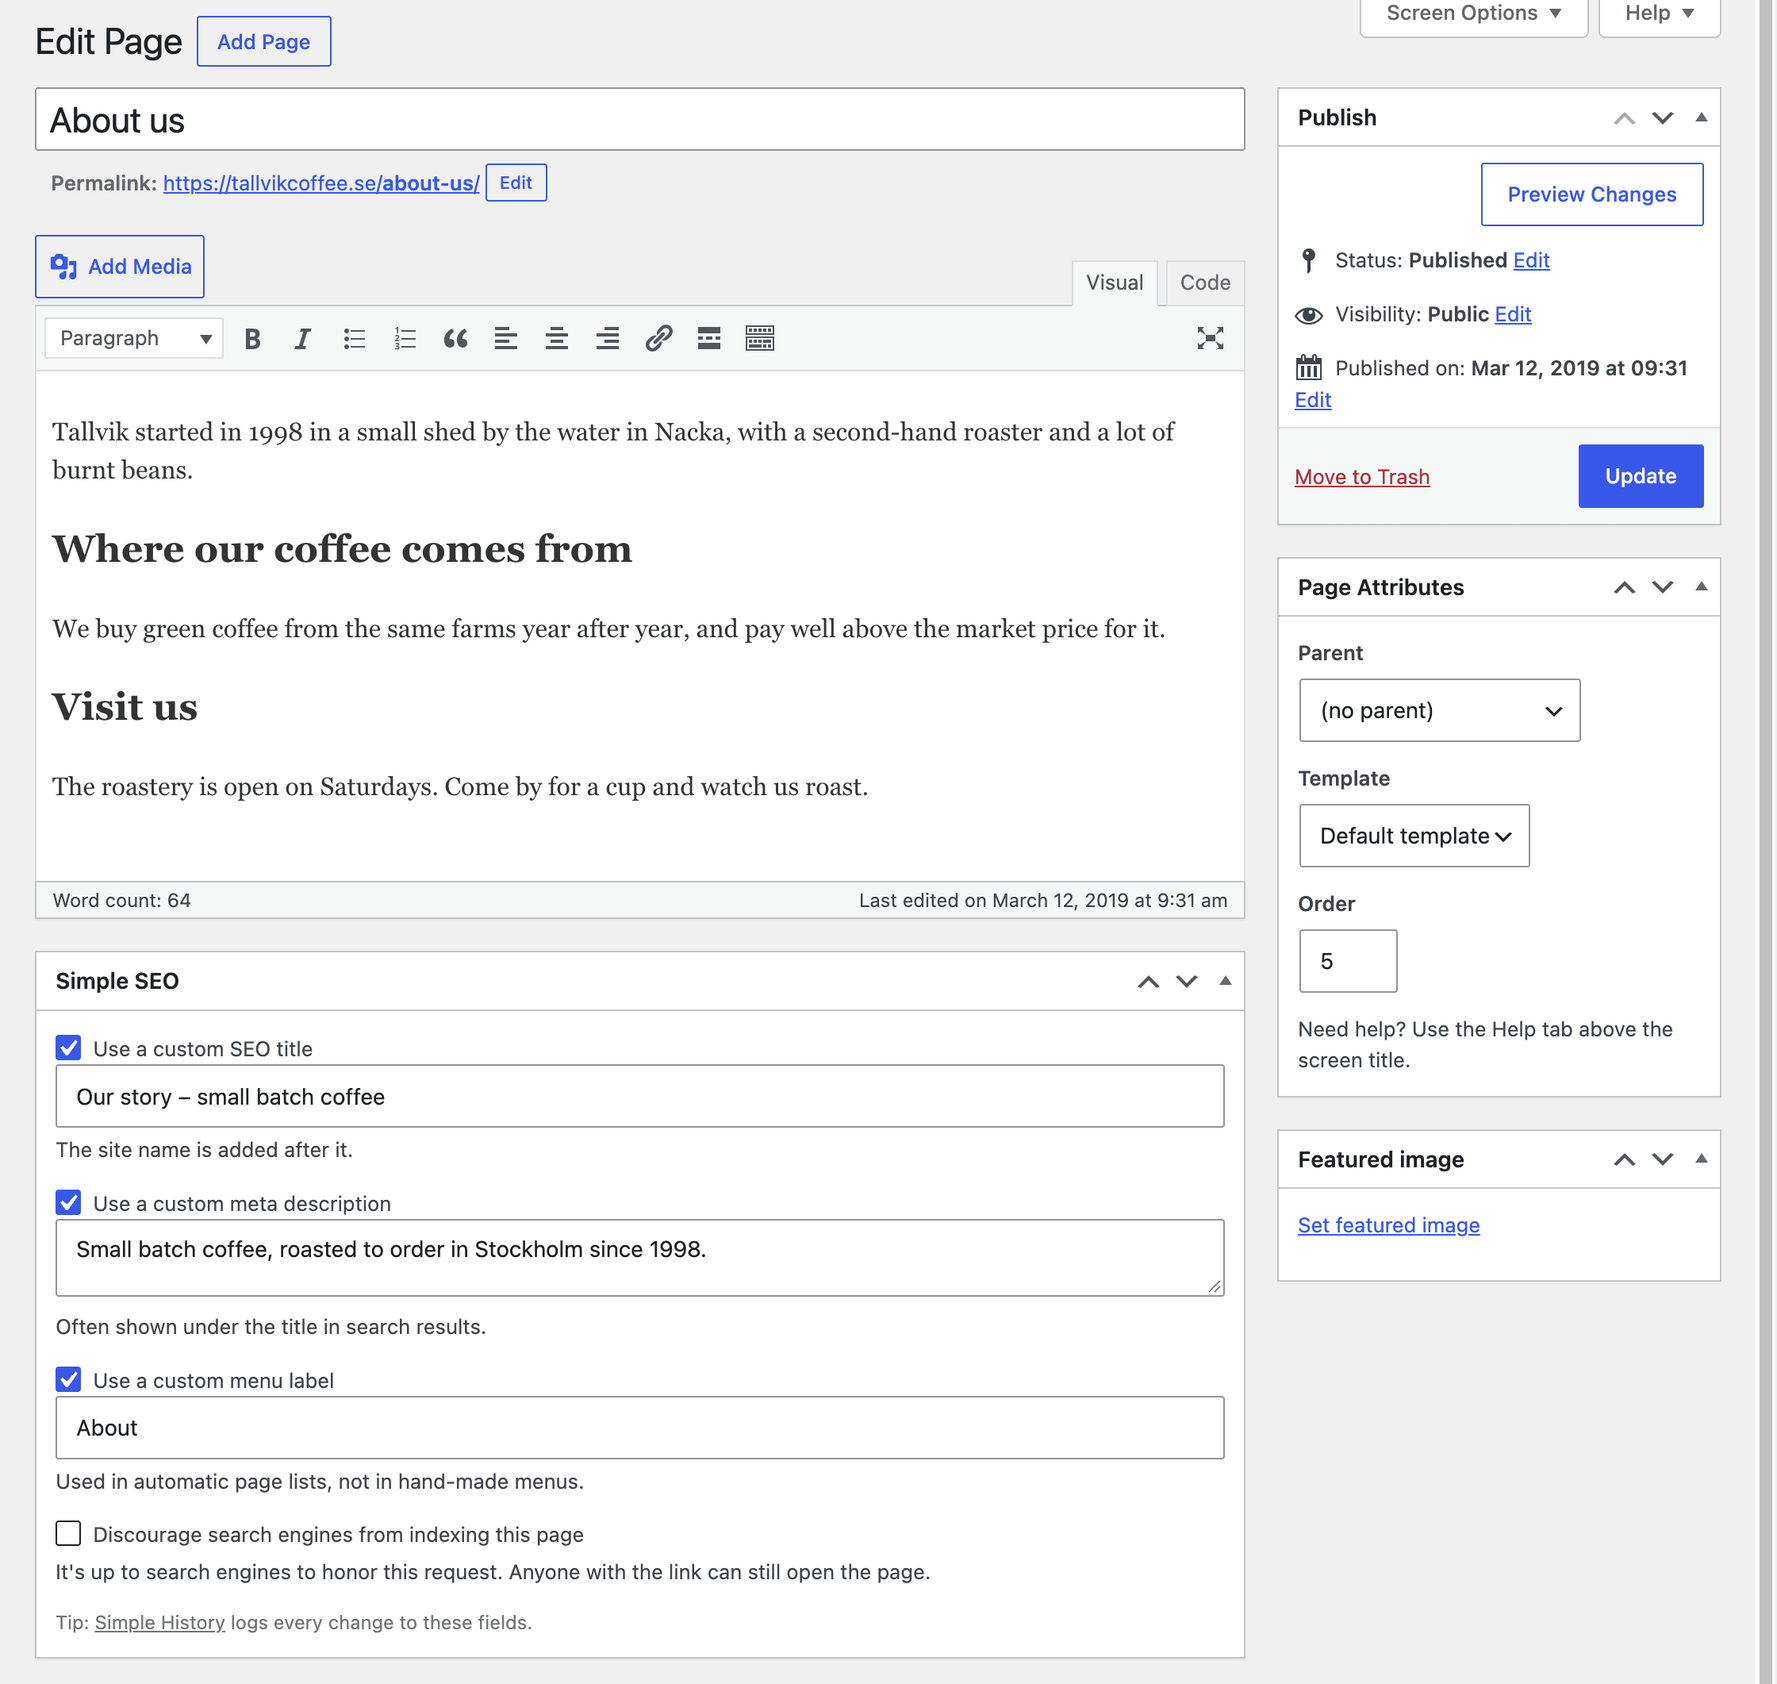
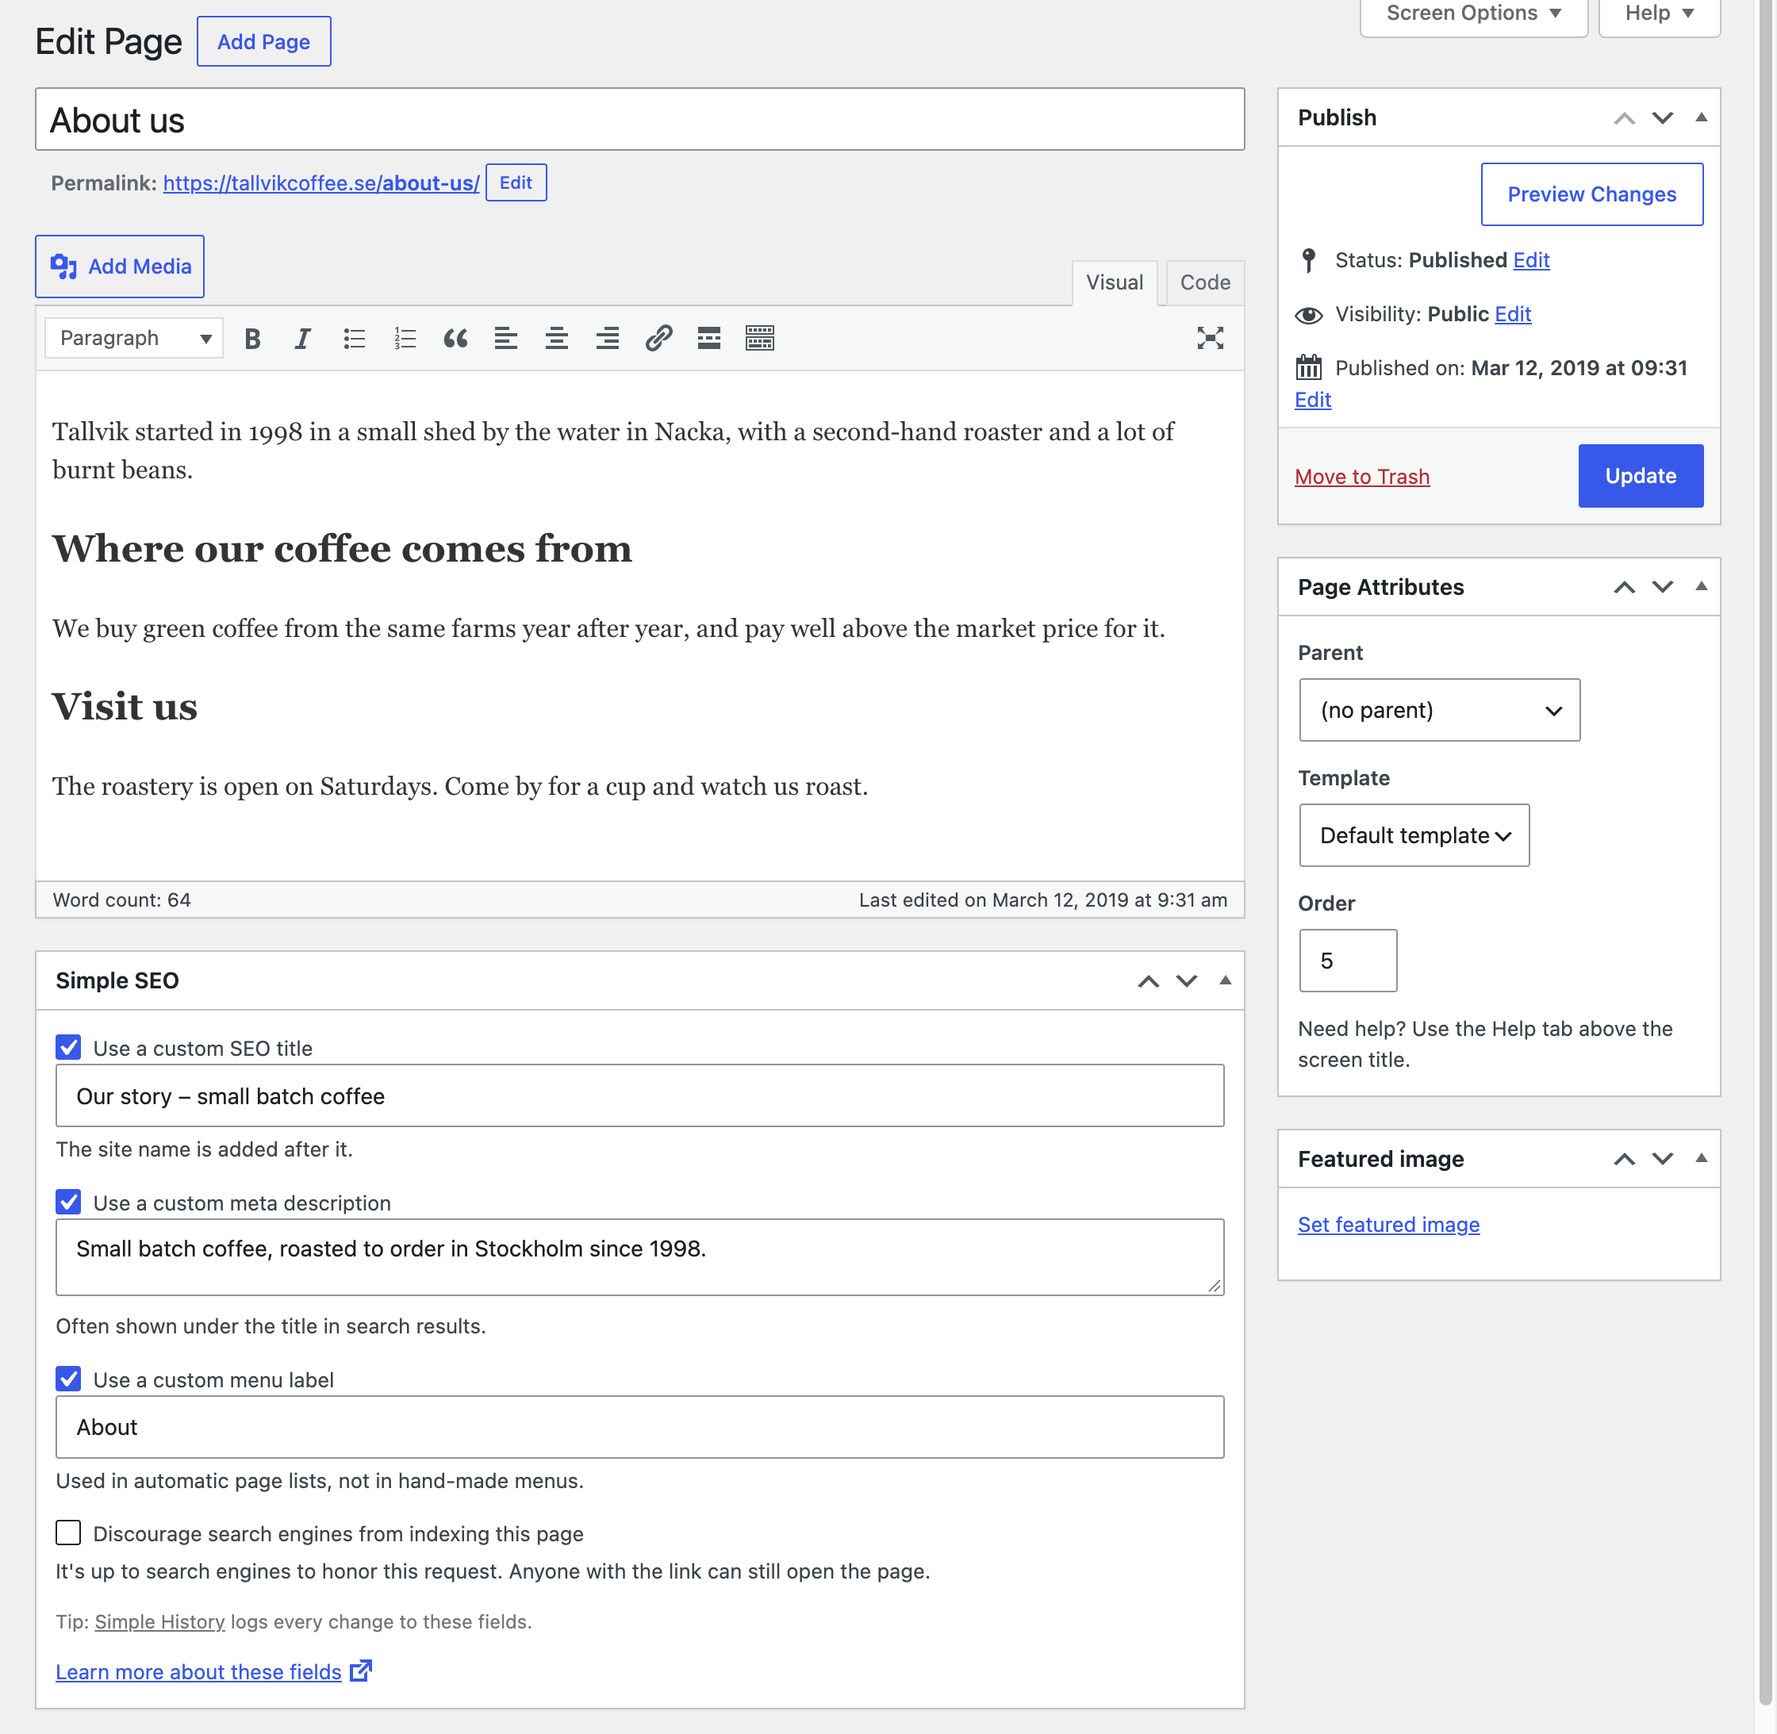
"Learn more about these fields" link to the FAQ
At the bottom of the block editor panel and the Classic box, the core way
to offer more help. Screenshots 1 and 4 retaken.

diff --git a/build/editor-panel.js b/build/editor-panel.js
@@ -1,2 +1,2 @@
-(()=>{"use strict";const e=window.wp.plugins,s=window.wp.editor,t=window.wp.coreData,i=window.wp.data,o=window.wp.element,l=window.wp.components,n=window.wp.i18n,a=window.ReactJSXRuntime,{otherPlugin:_,simpleHistoryUrl:p,frontPageId:r}=window.simpleSeoEditor||{};function d({label:e,inputLabel:s,help:t,text:i,disabled:n,onChange:_,multiline:p}){const[r,d]=(0,o.useState)(!1),m=!n&&(""!==i||r),c={__nextHasNoMarginBottom:!0,hideLabelFromVision:!0,label:s,help:t,value:i,onChange:e=>_({text:e,disabled:!m})};return(0,a.jsxs)(l.Flex,{direction:"column",gap:2,children:[(0,a.jsx)(l.CheckboxControl,{__nextHasNoMarginBottom:!0,label:e,checked:m,onChange:e=>{d(e),_({text:i,disabled:!e})}}),p?(0,a.jsx)(l.TextareaControl,{...c,className:"simple-seo-autogrow",rows:2}):(0,a.jsx)(l.TextControl,{...c,__next40pxDefaultSize:!0})]})}(0,e.registerPlugin)("simple-seo",{render:function(){const e=(0,i.useSelect)(e=>e(s.store).getCurrentPostType(),[]),m=(0,i.useSelect)(e=>e(s.store).getCurrentPostId(),[]),[c,h]=(0,t.useEntityProp)("postType",e,"meta");if(!c)return null;const u=!c._simple_seo_title_disabled&&""!==c._simple_seo_title||!c._simple_seo_description_disabled&&""!==c._simple_seo_description||!!c._simple_seo_noindex,x=e=>({text:s,disabled:t})=>h({[e]:s,[`${e}_disabled`]:t});return(0,a.jsx)(s.PluginDocumentSettingPanel,{name:"simple-seo",title:(0,n.__)("Simple SEO","simple-seo"),children:(0,a.jsxs)(l.Flex,{direction:"column",gap:4,children:[_&&(0,a.jsx)("p",{className:"components-base-control__help",children:(0,n.sprintf)(/* translators: %s: name of another SEO plugin, like Yoast SEO. */ /* translators: %s: name of another SEO plugin, like Yoast SEO. */
-(0,n.__)("%s is active and handles SEO, so these fields aren’t used.","simple-seo"),_)}),(0,a.jsx)(d,{label:(0,n.__)("Use a custom SEO title","simple-seo"),inputLabel:(0,n.__)("SEO title","simple-seo"),help:m===r?(0,n.__)("Used as the whole title of the front page.","simple-seo"):(0,n.__)("The site name is added after it.","simple-seo"),text:c._simple_seo_title,disabled:c._simple_seo_title_disabled,onChange:x("_simple_seo_title")}),(0,a.jsx)(d,{label:(0,n.__)("Use a custom meta description","simple-seo"),inputLabel:(0,n.__)("Meta description","simple-seo"),help:(0,n.__)("Often shown under the title in search results.","simple-seo"),text:c._simple_seo_description,disabled:c._simple_seo_description_disabled,onChange:x("_simple_seo_description"),multiline:!0}),(0,a.jsx)(l.CheckboxControl,{__nextHasNoMarginBottom:!0,label:(0,n.__)("Discourage search engines from indexing this page","simple-seo"),help:(0,n.__)("It’s up to search engines to honor this request. Anyone with the link can still open the page.","simple-seo"),checked:!!c._simple_seo_noindex,onChange:e=>h({_simple_seo_noindex:e})}),p&&u&&(0,a.jsx)("p",{className:"simple-seo-tip",children:(0,o.createInterpolateElement)((0,n.__)("Tip: <a>Simple History</a> logs every change to these fields.","simple-seo"),{a:(0,a.jsx)("a",{href:p})})})]})})}})})();
+(()=>{"use strict";const e=window.wp.plugins,s=window.wp.editor,i=window.wp.coreData,t=window.wp.data,o=window.wp.element,l=window.wp.components,n=window.wp.i18n,a=window.ReactJSXRuntime,{otherPlugin:_,simpleHistoryUrl:p,frontPageId:r,faqUrl:d}=window.simpleSeoEditor||{};function m({label:e,inputLabel:s,help:i,text:t,disabled:n,onChange:_,multiline:p}){const[r,d]=(0,o.useState)(!1),m=!n&&(""!==t||r),c={__nextHasNoMarginBottom:!0,hideLabelFromVision:!0,label:s,help:i,value:t,onChange:e=>_({text:e,disabled:!m})};return(0,a.jsxs)(l.Flex,{direction:"column",gap:2,children:[(0,a.jsx)(l.CheckboxControl,{__nextHasNoMarginBottom:!0,label:e,checked:m,onChange:e=>{d(e),_({text:t,disabled:!e})}}),p?(0,a.jsx)(l.TextareaControl,{...c,className:"simple-seo-autogrow",rows:2}):(0,a.jsx)(l.TextControl,{...c,__next40pxDefaultSize:!0})]})}(0,e.registerPlugin)("simple-seo",{render:function(){const e=(0,t.useSelect)(e=>e(s.store).getCurrentPostType(),[]),c=(0,t.useSelect)(e=>e(s.store).getCurrentPostId(),[]),[h,u]=(0,i.useEntityProp)("postType",e,"meta");if(!h)return null;const x=!h._simple_seo_title_disabled&&""!==h._simple_seo_title||!h._simple_seo_description_disabled&&""!==h._simple_seo_description||!!h._simple_seo_noindex,g=e=>({text:s,disabled:i})=>u({[e]:s,[`${e}_disabled`]:i});return(0,a.jsx)(s.PluginDocumentSettingPanel,{name:"simple-seo",title:(0,n.__)("Simple SEO","simple-seo"),children:(0,a.jsxs)(l.Flex,{direction:"column",gap:4,children:[_&&(0,a.jsx)("p",{className:"components-base-control__help",children:(0,n.sprintf)(/* translators: %s: name of another SEO plugin, like Yoast SEO. */ /* translators: %s: name of another SEO plugin, like Yoast SEO. */
+(0,n.__)("%s is active and handles SEO, so these fields aren’t used.","simple-seo"),_)}),(0,a.jsx)(m,{label:(0,n.__)("Use a custom SEO title","simple-seo"),inputLabel:(0,n.__)("SEO title","simple-seo"),help:c===r?(0,n.__)("Used as the whole title of the front page.","simple-seo"):(0,n.__)("The site name is added after it.","simple-seo"),text:h._simple_seo_title,disabled:h._simple_seo_title_disabled,onChange:g("_simple_seo_title")}),(0,a.jsx)(m,{label:(0,n.__)("Use a custom meta description","simple-seo"),inputLabel:(0,n.__)("Meta description","simple-seo"),help:(0,n.__)("Often shown under the title in search results.","simple-seo"),text:h._simple_seo_description,disabled:h._simple_seo_description_disabled,onChange:g("_simple_seo_description"),multiline:!0}),(0,a.jsx)(l.CheckboxControl,{__nextHasNoMarginBottom:!0,label:(0,n.__)("Discourage search engines from indexing this page","simple-seo"),help:(0,n.__)("It’s up to search engines to honor this request. Anyone with the link can still open the page.","simple-seo"),checked:!!h._simple_seo_noindex,onChange:e=>u({_simple_seo_noindex:e})}),p&&x&&(0,a.jsx)("p",{className:"simple-seo-tip",children:(0,o.createInterpolateElement)((0,n.__)("Tip: <a>Simple History</a> logs every change to these fields.","simple-seo"),{a:(0,a.jsx)("a",{href:p})})}),(0,a.jsx)("div",{children:(0,a.jsx)(l.ExternalLink,{href:d,children:(0,n.__)("Learn more about these fields","simple-seo")})})]})})}})})();

diff --git a/.claude/skills/visual-check/capture-screenshots.js b/.claude/skills/visual-check/capture-screenshots.js
@@ -18,9 +18,9 @@
 async ( page ) => {
 	const WP_ENV = 'http://localhost:8315';
 	const CLASSIC = 'http://wp-playground-classiceditor.test:8314';
-	const WP_ENV_PAGE = 201; // "About us" from seed.php on wp-env.
-	const WP_ENV_QUICK_EDIT = 198; // "Our coffees", opened in Quick Edit in shot 2.
-	const CLASSIC_PAGE = 119; // "About us" from seed.php on the Classic Editor site.
+	const WP_ENV_PAGE = 241; // "About us" from seed.php on wp-env.
+	const WP_ENV_QUICK_EDIT = 238; // "Our coffees", opened in Quick Edit in shot 2.
+	const CLASSIC_PAGE = 130; // "About us" from seed.php on the Classic Editor site.
 	const X = 160; // Right of the admin menu.
 	const WIDTH = 1120;
 
@@ -28,7 +28,7 @@ async ( page ) => {
 		.context()
 		.browser()
 		.newContext( {
-			viewport: { width: WIDTH, height: 1100 }, // The block editor has no admin menu.
+			viewport: { width: WIDTH, height: 1200 }, // The block editor has no admin menu; tall enough for the whole panel.
 			deviceScaleFactor: 2,
 		} );
 	const p = await context.newPage();

diff --git a/js/editor-panel.js b/js/editor-panel.js
@@ -14,13 +14,14 @@ import { useSelect } from '@wordpress/data';
 import { createInterpolateElement, useState } from '@wordpress/element';
 import {
 	CheckboxControl,
+	ExternalLink,
 	Flex,
 	TextControl,
 	TextareaControl,
 } from '@wordpress/components';
 import { __, sprintf } from '@wordpress/i18n';
 
-const { otherPlugin, simpleHistoryUrl, frontPageId } =
+const { otherPlugin, simpleHistoryUrl, frontPageId, faqUrl } =
 	window.simpleSeoEditor || {};
 
 /**
@@ -196,6 +197,12 @@ function SimpleSeoPanel() {
 						) }
 					</p>
 				) }
+
+				<div>
+					<ExternalLink href={ faqUrl }>
+						{ __( 'Learn more about these fields', 'simple-seo' ) }
+					</ExternalLink>
+				</div>
 			</Flex>
 		</PluginDocumentSettingPanel>
 	);

diff --git a/src/classic-editor.php b/src/classic-editor.php
@@ -96,6 +96,14 @@ function meta_box( WP_Post $post ): void {
 			)
 		);
 	}
+
+	printf(
+		'<p><a href="%1$s" target="_blank" rel="noopener">%2$s<span class="screen-reader-text"> %3$s</span><span aria-hidden="true" class="dashicons dashicons-external"></span></a></p>',
+		esc_url( FAQ_URL ),
+		esc_html__( 'Learn more about these fields', 'simple-seo' ),
+		/* translators: Accessibility text. */
+		esc_html__( '(opens in a new tab)', 'simple-seo' )
+	);
 }
 
 /**

diff --git a/src/block-editor.php b/src/block-editor.php
@@ -38,6 +38,7 @@ function enqueue_editor_panel(): void {
 			[
 				'otherPlugin'      => active_seo_plugin(),
 				'simpleHistoryUrl' => simple_history_tip_url(),
+				'faqUrl'           => FAQ_URL,
 				'frontPageId'      => 'page' === get_option( 'show_on_front' ) ? (int) get_option( 'page_on_front' ) : 0,
 			]
 		) . ';',

diff --git a/src/admin.php b/src/admin.php
@@ -22,6 +22,11 @@ function is_front_page_post( int $post_id ): bool {
 }
 
 /**
+ * The readme's FAQ on WordPress.org, linked as "Learn more" at the bottom of the fields.
+ */
+const FAQ_URL = 'https://wordpress.org/plugins/simple-seo/#faq';
+
+/**
  * Help text for the SEO title field.
  *
  * @param int $post_id Post ID.

diff --git a/build/editor-panel.asset.php b/build/editor-panel.asset.php
@@ -9,5 +9,5 @@
 		'wp-i18n',
 		'wp-plugins'
 	),
-	'version' => '6df75346f2224ca92919'
+	'version' => 'd4bbec710dbaf8b0ddbc'
 );

diff --git a/CLAUDE.md b/CLAUDE.md
@@ -44,7 +44,7 @@ Released: 0.3.5. `main` holds unreleased 1.0 work.
   - Sitemap: noindexed posts are left out of core's `wp-sitemap.xml` (`wp_sitemaps_posts_query_args`). The noindex meta's sanitize callback stores it as `'1'` or `''`, which the query relies on.
   - The menu label only affects `get_pages()` / `wp_list_pages()`. That includes the Page List block (`wp-includes/blocks/page-list.php` calls `get_pages()`), which an empty Navigation block falls back to: WordPress creates a `wp_navigation` post containing `<!-- wp:page-list /-->` (verified in Twenty Twenty-Three on the php74 site). It does not reach classic menus or Navigation blocks with hand-picked Page Link blocks, which store their own labels.
 - Block editor: `src/block-editor.php` loads `build/editor-panel.js` (source `js/editor-panel.js`) on the post edit screen only. A "Simple SEO" `PluginDocumentSettingPanel` made of core components, reading and writing the meta with `useEntityProp`, so it saves with the post. Same checkbox + text pattern as the Classic box. It renders nothing for post types without `custom-fields` support. Keep it looking like core: stable `@wordpress/components` only (`__experimental*` fails lint), core wording and spacing, one short help line per field, the other-plugin message as a plain help paragraph (core panels don't use Notices). Pass only changed keys to `setMeta()` (meta edits are merged). Checkbox state follows the meta, local state only for "ticked but empty", so undo works. Keep `__nextHasNoMarginBottom` / `__next40pxDefaultSize` until the floor is WordPress 7.0 (default there, warnings without them on 6.7–6.9); never pass `__next40pxDefaultSize` to `TextareaControl`. Reviewed against WP 7.1 and Gutenberg trunk on 2026-09-25: no deprecated APIs, and DataForm isn't usable by plugins yet.
-- Naming (2026-09-26, after a UX and an art director review): the block editor panel and the Classic box are "Simple SEO", so users see where they come from; the list column and the Quick Edit group are "SEO", where space is tight. Help text is one line per field (`src/admin.php`: the title help says "whole title" on the static front page, the noindex checkbox and help follow core's Settings → Reading wording, since noindex is a request search engines may ignore: "Discourage search engines from indexing this page" / "It's up to search engines to honor this request. Anyone with the link can still open the page."). The Simple History tip only shows on posts that use the fields.
+- Naming (2026-09-26, after a UX and an art director review): the block editor panel and the Classic box are "Simple SEO", so users see where they come from; the list column and the Quick Edit group are "SEO", where space is tight. Help text is one line per field (`src/admin.php`: the title help says "whole title" on the static front page, the noindex checkbox and help follow core's Settings → Reading wording, since noindex is a request search engines may ignore: "Discourage search engines from indexing this page" / "It's up to search engines to honor this request. Anyone with the link can still open the page."). The Simple History tip only shows on posts that use the fields. Both the panel and the box end with "Learn more about these fields", an external link to the readme FAQ (`FAQ_URL` in `src/admin.php`), the core way to offer more help (core never puts help icons on fields).
 - Posts lists (`src/list-table.php`): an "SEO" column right after the title (2026-09-26: it's related to the title) (what's used: "Search engines discouraged" first, then "Title:" and "Description:" lines with a muted label (the title text semibold, 600), so each row reads on its own; switched-off text greyed out as "Title (off):" so saved values never seem to vanish; — when nothing is set. picked on 2026-09-26 from a mockup comparison) and the same checkbox + text fields in Quick Edit, filled by `build/quick-edit.js` from JSON the column keeps in a hidden element. Quick Edit posts the Classic box's field names, so `save_post()` in `classic-editor.php` saves both; Bulk Edit doesn't include them, so it can't touch them. The list query has already loaded the meta: no extra queries. Which post types: `has_seo_fields()` in `meta.php`, shared with the box and the panel.
 - Old 0.3.5 titles reach the REST API and the panel through `legacy_title_default()` (`default_post_metadata`). `migrate_legacy_title()` moves them to the new keys on any write of the title or its flag. Moving matters: the REST API skips values equal to the (legacy) default, so ticking the box writes only the flag.
 - Which post types get the fields (Classic box and block editor panel): those where `is_post_type_viewable()` is true, except attachments. That's deliberate (2026-09-25): "viewable" means the post type has pages visitors and search engines can reach (`publicly_queryable`, or `public` for built-ins), which is what matters for SEO; checking `public` alone would be wrong for CPTs that set the two differently. Attachments are left out because attachment pages are off by default since WordPress 6.4. The block editor panel also needs `custom-fields` support (see todo.md).

diff --git a/.claude/skills/visual-check/SKILL.md b/.claude/skills/visual-check/SKILL.md
@@ -64,8 +64,8 @@ Steps:
    pngquant --quality=80-95 --strip --skip-if-larger --force --ext .png .wordpress-org/screenshot-*.png
    oxipng -o max --strip safe .wordpress-org/screenshot-*.png
    ```
-   2026-09-26: the six came out at 111/111/81/104/27/26 KB.
-5. Look at all six before committing: the whole panel visible in shot 1 (the window is 1100 high for that), Quick Edit and column values both visible in shot 2 (it ends at the "Thanks for your order" row), nothing cut off in shot 4, no `about-us-2` slug (delete older "About us" pages on the Classic site), no Simple History sidebar in shot 6.
+   2026-09-26: the six came out at 114/111/81/123/27/26 KB.
+5. Look at all six before committing: the whole panel down to "Learn more about these fields" visible in shot 1 (the window is 1200 high for that), Quick Edit and column values both visible in shot 2 (it ends at the "Thanks for your order" row), nothing cut off in shot 4, no `about-us-2` slug (delete older "About us" pages on the Classic site), no Simple History sidebar in shot 6.
 
 ## Gotchas
 
